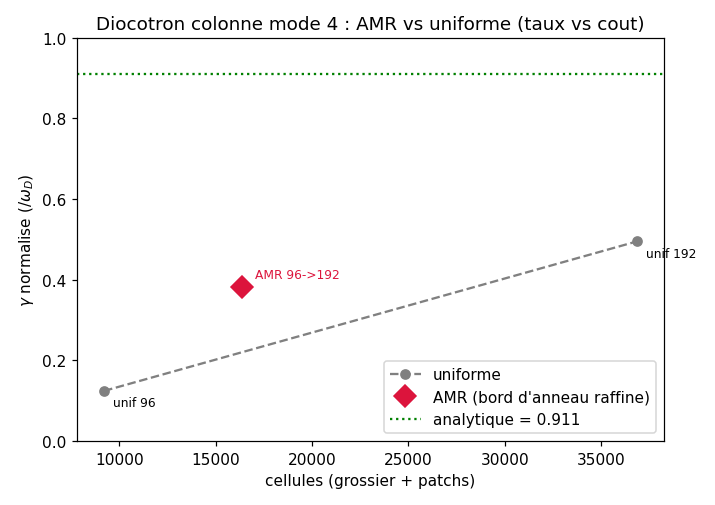
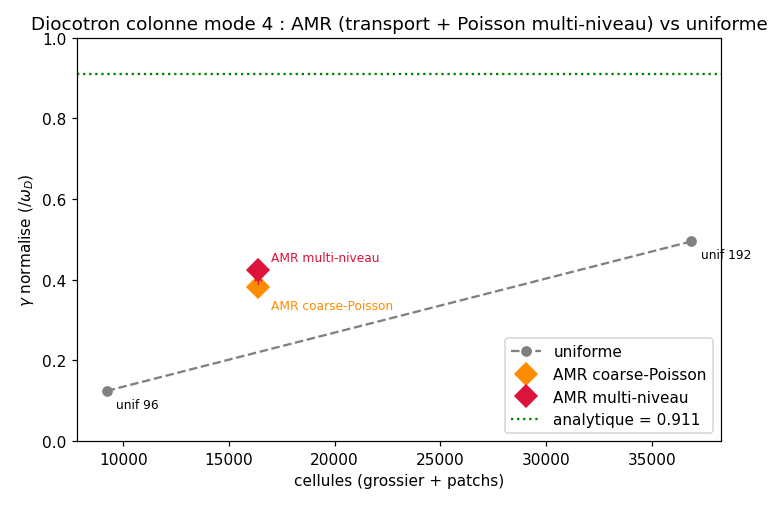
diocotron colonne : poisson multi-niveau (mode ml) pour lever le bridage du grossier
l'etape M2 plafonnait le taux de croissance parce que le potentiel restait
resolu sur la grille grossiere (le coupleur injecte l'aux grossier aux patchs).
le mode ml assemble une densite composite sur la grille fine 2nc (grossier
prolonge + patchs fins ecrases), resout un geometric mg fin dessus, restreint
le potentiel vers le grossier pour l'aux du transport grossier, et garde le
gradient fin direct pour l'aux des patchs.

resultat mode 4, memes 16392 cellules : le taux normalise remonte de 0.38 a
0.42, vers l'uniforme fin (0.50 a 192 = 36864 cellules). hypothese confirmee,
le poisson grossier bridait bien le taux ; l'amr multi-niveau atteint 85 pour
cent du taux de l'uniforme-192 pour 44 pour cent des cellules. le reste de
l'ecart est le transport grossier hors patchs plus la resolution effective
finie, qui se referme en montant la base.

roadmap M2b documente, figure de comparaison mise a jour. ctest serie 59/59.

diff --git a/examples/diocotron_column_amr.cpp b/examples/diocotron_column_amr.cpp
@@ -45,6 +45,9 @@ int main(int argc, char** argv) {
   const int nsteps = (argc > 3) ? std::atoi(argv[3]) : 1200;
   const bool refine = (argc > 4) ? (std::atoi(argv[4]) != 0) : true;
   const int l = (argc > 5) ? std::atoi(argv[5]) : 4;
+  // ml=1 : Poisson MULTI-NIVEAU (densite composite sur la grille fine -> potentiel fin au bord
+  // d'anneau), au lieu du Poisson grossier + injection d'aux. Teste si le grossier bride le taux.
+  const bool ml = (argc > 6) ? (std::atoi(argv[6]) != 0) : false;
   std::filesystem::create_directories(out);
 
   const double L = 1.0, cx = 0.5 * L, cy = 0.5 * L;
@@ -80,8 +83,19 @@ int main(int argc, char** argv) {
       for (int i = g.lo[0]; i <= g.hi[0]; ++i) u(i, j, 0) = ne0((i + 0.5) * dxc, (j + 0.5) * dyc);
   }
 
-  GeometricMG mg(geom, ba, bc, active);  // multigrille avec paroi embedded
+  GeometricMG mg(geom, ba, bc, active);  // multigrille grossier avec paroi embedded
   MultiFab Uf, auxf;                     // niveau fin multi-box (vide si refine=0)
+
+  // Poisson MULTI-NIVEAU (mode ml) : grille fine uniforme 2nc, densite COMPOSITE (grossier
+  // prolonge + fin ecrase la ou raffine) -> potentiel fin au bord d'anneau. phic = restriction
+  // du potentiel fin sur le grossier (pour l'aux grossier du transport).
+  const int nf = 2 * nc;
+  const double dxf = dxc / 2, dyf = dyc / 2;
+  Box2D fdom = Box2D::from_extents(nf, nf);
+  Geometry fgeom{fdom, 0.0, L, 0.0, L};
+  BoxArray fba(std::vector<Box2D>{fdom});
+  GeometricMG fmg(fgeom, fba, bc, active);
+  MultiFab phic(ba, dm, 1, 1);
 
   auto compute_coarse_aux = [&]() {
     fill_boundary(Uc, dom, Periodicity{false, false});
@@ -109,6 +123,51 @@ int main(int argc, char** argv) {
       for (int j = g.lo[1]; j <= g.hi[1]; ++j)
         for (int i = g.lo[0]; i <= g.hi[0]; ++i)
           for (int k = 0; k < 3; ++k) af(i, j, k) = ac(coarsen_index(i, 2), coarsen_index(j, 2), k);
+    }
+  };
+
+  // MULTI-NIVEAU : Poisson sur la grille fine, densite composite (grossier prolonge + fin
+  // ecrase la ou raffine) -> potentiel FIN au bord d'anneau. Remplit auxc (restriction) ET
+  // auxf (gradient fin direct). Remplace compute_coarse_aux + inject_aux.
+  auto compute_aux_ml = [&]() {
+    fill_boundary(Uc, dom, Periodicity{false, false});
+    Array4 rf = fmg.rhs().fab(0).array();
+    const ConstArray4 uc = Uc.fab(0).const_array();
+    for (int J = 0; J < nf; ++J)
+      for (int I = 0; I < nf; ++I) rf(I, J) = model.alpha * (uc(I / 2, J / 2, 0) - model.n_i0);
+    for (int li = 0; li < Uf.local_size(); ++li) {
+      const ConstArray4 uf = Uf.fab(li).const_array();
+      const Box2D nb = Uf.box(li);
+      for (int j = nb.lo[1]; j <= nb.hi[1]; ++j)
+        for (int i = nb.lo[0]; i <= nb.hi[0]; ++i) rf(i, j) = model.alpha * (uf(i, j, 0) - model.n_i0);
+    }
+    fmg.solve();
+    const ConstArray4 pf = fmg.phi().fab(0).const_array();
+    Array4 pq = phic.fab(0).array();  // restriction du potentiel fin sur le grossier
+    for (int J = 0; J < nc; ++J)
+      for (int I = 0; I < nc; ++I)
+        pq(I, J, 0) = 0.25 * (pf(2 * I, 2 * J) + pf(2 * I + 1, 2 * J) + pf(2 * I, 2 * J + 1) +
+                              pf(2 * I + 1, 2 * J + 1));
+    fill_boundary(phic, dom, Periodicity{false, false});
+    const ConstArray4 pc = phic.fab(0).const_array();
+    Array4 ac = auxc.fab(0).array();
+    for (int J = 0; J < nc; ++J)
+      for (int I = 0; I < nc; ++I) {
+        ac(I, J, 0) = pc(I, J, 0);
+        ac(I, J, 1) = (pc(I + 1, J, 0) - pc(I - 1, J, 0)) / (2 * dxc);
+        ac(I, J, 2) = (pc(I, J + 1, 0) - pc(I, J - 1, 0)) / (2 * dyc);
+      }
+    fill_boundary(auxc, dom, Periodicity{false, false});
+    for (int li = 0; li < Uf.local_size(); ++li) {  // aux fin = gradient du potentiel fin
+      Array4 af = auxf.fab(li).array();
+      const Box2D g = auxf.fab(li).grown_box();
+      for (int j = g.lo[1]; j <= g.hi[1]; ++j)
+        for (int i = g.lo[0]; i <= g.hi[0]; ++i) {
+          const int ii = std::clamp(i, 1, nf - 2), jj = std::clamp(j, 1, nf - 2);
+          af(i, j, 0) = pf(ii, jj);
+          af(i, j, 1) = (pf(ii + 1, jj) - pf(ii - 1, jj)) / (2 * dxf);
+          af(i, j, 2) = (pf(ii, jj + 1) - pf(ii, jj - 1)) / (2 * dyf);
+        }
     }
   };
 
@@ -148,19 +207,21 @@ int main(int argc, char** argv) {
     auxf = MultiFab(Uf.box_array(), Uf.dmap(), 3, 1);
   };
 
-  // amplitude du mode l de phi echantillonne sur le cercle r=r0 (acces direct mg.phi()).
+  // amplitude du mode l de phi sur le cercle r=r0 (potentiel grossier mg, ou fin fmg si ml).
   auto mode_amplitude = [&]() {
-    const ConstArray4 p = mg.phi().fab(0).const_array();
+    const ConstArray4 p = (ml ? fmg.phi() : mg.phi()).fab(0).const_array();
+    const int n = ml ? nf : nc;
+    const double dx = ml ? dxf : dxc;
     const int K = 256;
     double sr = 0, si = 0;
     for (int k = 0; k < K; ++k) {
       const double th = 2 * kPi * k / K;
       const double x = cx + r0 * std::cos(th), y = cy + r0 * std::sin(th);
-      const double fx = x / dxc - 0.5, fy = y / dyc - 0.5;
+      const double fx = x / dx - 0.5, fy = y / dx - 0.5;
       const int i0 = (int)std::floor(fx), j0 = (int)std::floor(fy);
       const double tx = fx - i0, ty = fy - j0;
       auto P = [&](int ii, int jj) {
-        ii = std::clamp(ii, 0, nc - 1); jj = std::clamp(jj, 0, nc - 1); return p(ii, jj);
+        ii = std::clamp(ii, 0, n - 1); jj = std::clamp(jj, 0, n - 1); return p(ii, jj);
       };
       const double v = (1 - tx) * (1 - ty) * P(i0, j0) + tx * (1 - ty) * P(i0 + 1, j0) +
                        (1 - tx) * ty * P(i0, j0 + 1) + tx * ty * P(i0 + 1, j0 + 1);
@@ -189,8 +250,8 @@ int main(int argc, char** argv) {
     return c;
   };
 
-  compute_coarse_aux();
   if (refine) regrid();
+  if (ml) compute_aux_ml(); else compute_coarse_aux();
   if (refine) mf_average_down_multi(Uf, Uc);
   const double M0 = mass();
   double dt = 0.4 * dxc / vmax(), t = 0;
@@ -212,9 +273,8 @@ int main(int argc, char** argv) {
       std::printf("  s=%5d t=%7.3f a=%.4e npatch=%d cells=%ld drift=%.2e\n", s, t,
                   mode_amplitude(), Uf.local_size(), cells, std::fabs(mass() - M0));
     if (s == nsteps) break;
-    if (refine && s > 0 && s % 30 == 0) { compute_coarse_aux(); regrid(); }
-    compute_coarse_aux();
-    if (refine) inject_aux();
+    if (refine && s > 0 && s % 30 == 0) regrid();  // tag geometrique (Uc seul)
+    if (ml) compute_aux_ml(); else { compute_coarse_aux(); if (refine) inject_aux(); }
     amr_step_2level_multipatch<NoSlope, RusanovFlux>(model, Uc, dom, dxc, dyc, Uf, auxc, auxf, dt);
     t += dt;
     if (s % 20 == 0) dt = 0.4 * dxc / vmax();

diff --git a/docs/ROADMAP.md b/docs/ROADMAP.md
@@ -210,11 +210,18 @@ puis d'y ajouter notre AMR, puis SAMRAI.
   Résultat (mode 4, `docs/fig_diocotron_amr_vs_uniforme.png`) : à BASE GROSSIÈRE ÉGALE (96), l'AMR
   **triple le taux** (`γ_norm = 0.38` vs uniforme `0.12`) en raffinant le transport au bord, pour
   1.8x les cellules ; il est sur une MEILLEURE courbe taux/cellule que l'uniforme (0.38 à 16k
-  cellules vs ~0.22 par interpolation uniforme). Constat HONNÊTE : il n'atteint pas encore l'uniforme
-  fin (`0.50` à 192) ni `0.911`, parce que le **Poisson reste résolu sur le grossier** (le coupleur
-  injecte l'aux grossier aux patchs ; le potentiel est donc bridé par la résolution grossière). Le
-  pas suivant vers `0.911` : un Poisson MULTI-NIVEAU (les patchs fins contribuant au potentiel), pas
-  seulement un transport raffiné.
+  cellules vs ~0.22 par interpolation uniforme).
+- **M2b : Poisson MULTI-NIVEAU (FAIT, mode `ml=1`).** L'étape M2 bridait le taux parce que le
+  **Poisson restait résolu sur le grossier** (le coupleur injecte l'aux grossier aux patchs). Le mode
+  `ml` (`diocotron_column_amr <out> <nc> <nsteps> <refine> <l> <ml>`) assemble une densité composite
+  sur la grille fine (grossier prolongé + patchs fins écrasés), résout un `GeometricMG` fin dessus,
+  puis restreint le potentiel vers le grossier (gradient pour `auxc`) et garde le gradient fin direct
+  (`auxf`). Résultat (mode 4, mêmes 16 392 cellules) : le taux remonte de `γ_norm = 0.38` à `0.42`,
+  vers l'uniforme fin (`0.50` à 192 = 36 864 cellules). HYPOTHÈSE CONFIRMÉE : le Poisson grossier
+  bridait bien le taux. L'AMR multi-niveau atteint donc 85 % du taux de l'uniforme-192 pour 44 % des
+  cellules. Le reste de l'écart à `0.50` puis à `0.911` est le **transport grossier hors patchs** plus
+  la résolution effective finie (limite de diffusion de M1) : il se referme en montant la base (la
+  cible du hero-run).
 - **M3 : système magnétique complet (eq 2.4).** Au-delà de la limite de dérive : Euler+énergie +
   Poisson + Lorentz `m×Ω` (push de Boris déjà en place) + splitting d'opérateurs, pour reproduire la
   *méthode* du papier à travers les 12 ordres de grandeur d'échelles de temps.